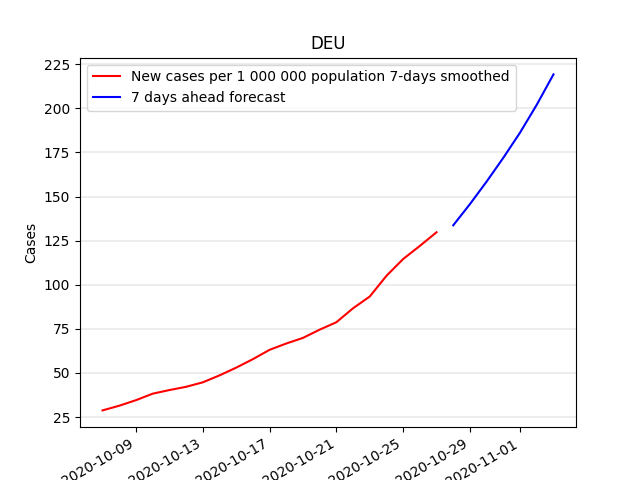
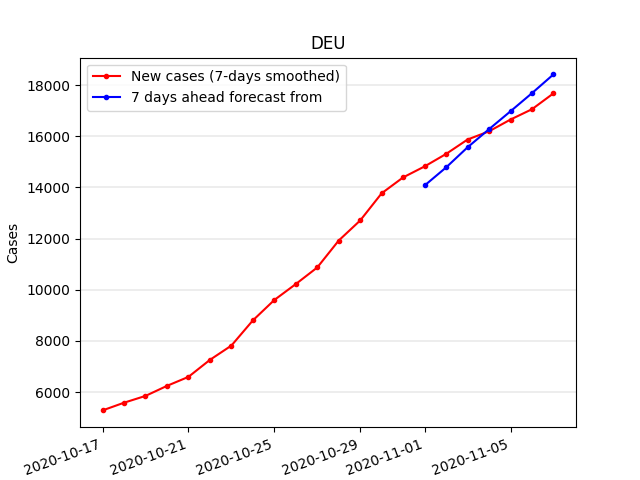
LSTM 7-days-ahead forecast

diff --git a/lstm/lstm_all_countries.py b/lstm/lstm_all_countries.py
@@ -9,11 +9,6 @@ from keras.models import Sequential
 from keras.layers import Dense
 from keras.layers import LSTM
 
-
-def compute_new_smoothed_cases_per_million(row):
-    return row["new_cases_smoothed"] / row["population"] * 1000000
-
-
 def series_to_in_out_pairs(data, n_in=1, n_out=1, leave_cols=[]):
     """
     :param data: pandas dataframe to be encoded
@@ -65,23 +60,30 @@ with open("../data/iso_country_codes.json", "r") as read_file:
 with open("../data/train_test_codes.json", "r") as read_file:
     train_codes, test_codes = json.load(read_file)
 
-euro_data = pd.read_csv("../data/euro_countries_filled.csv", index_col=0)
+start_date, end_date = "2020-03-01", "2020-10-31"
 
+raw_euro_data = pd.read_csv("../data/euro_countries_filled.csv", index_col=0)
+euro_data = raw_euro_data.copy(deep=True)
 euro_data["date"] = euro_data["date"].apply(date_to_number)
-euro_data = euro_data[euro_data["date"] < date_to_number("2020-10-28")]
-euro_data["new_smooth_per_mill"] = euro_data.apply(lambda row: compute_new_smoothed_cases_per_million(row), axis=1)
+euro_data = euro_data[euro_data["date"] <= date_to_number(end_date)]
+# euro_data["new_smooth_per_mill"] = euro_data.apply(lambda row: compute_new_smoothed_cases_per_million(row), axis=1)
 
 # Scale chosen features
-forecast_columns = ["date", "latitude", "longitude", "new_smooth_per_mill", "iso_code"]
-scale_columns = ["date", "latitude", "longitude", "new_smooth_per_mill"]
+forecast_columns = ["date", "latitude", "longitude", "population", "new_cases_smoothed", "iso_code"]
+scale_columns = ["date", "latitude", "longitude", "population", "new_cases_smoothed"]
 forecast_data = euro_data[forecast_columns].copy(deep=True)
 scaler = MinMaxScaler(feature_range=(0, 1))
 forecast_data[scale_columns] = scaler.fit_transform(forecast_data[scale_columns])
 
-forecast_data = series_to_in_out_pairs(forecast_data, n_in=7, n_out=1, leave_cols=["date", "latitude", "longitude", "iso_code"])
+forecast_data = series_to_in_out_pairs(forecast_data, n_in=7, n_out=1, leave_cols=["date", "latitude", "longitude", "population", "iso_code"])
 
 
-def date_scaling(d): return (date_to_number(d) - scaler.data_min_[0]) / (scaler.data_max_[0] - scaler.data_min_[0])
+def date_scaling(d):
+    return (date_to_number(d) - scaler.data_min_[0]) / (scaler.data_max_[0] - scaler.data_min_[0])
+
+
+def invert_date_scaling(s):
+    return number_to_datetime(s * (scaler.data_max_[0] - scaler.data_min_[0]) + scaler.data_min_[0])
 
 
 # All countries have data from 2019-12-31 to 2020-10-27.
@@ -89,7 +91,6 @@ def date_scaling(d): return (date_to_number(d) - scaler.data_min_[0]) / (scaler.
 # We remove all observations before march.
 # Europe's habits have changed since before march 2020, newer data is more interesting
 # I choose the period from 2020-03-01 to 2020-10-27, that is 241 days
-start_date, end_date = "2020-03-01", "2020-10-27"
 forecast_data = forecast_data[forecast_data["date"] >= date_scaling(start_date)]
 forecast_data = forecast_data[forecast_data["date"] <= date_scaling(end_date)]
 
@@ -104,13 +105,14 @@ test = test_df.values
 
 n_lag_days = 7
 n_daily_features = 1
-n_single_features = 3
-n_obs = n_lag_days * n_daily_features + n_single_features  # 10 in this case
+n_single_features = 4
+n_obs = n_lag_days * n_daily_features + n_single_features  # 11 in this case
 
 train_x, train_y = train[:, : n_obs], train[:, -1]
 test_x, test_y = test[:, : n_obs], test[:, -1]
 train_x = train_x.reshape(train_x.shape[0], 1, train_x.shape[1])
 test_x = test_x.reshape(test_x.shape[0], 1, test_x.shape[1])
+
 # Define a model
 model = Sequential()
 model.add(LSTM(64, input_shape=(train_x.shape[1], train_x.shape[2])))
@@ -135,36 +137,108 @@ plt.savefig("training_loss.png")
 # Evaluate model
 scaled_prediction = model.predict(test_x)
 test_x = test_x.reshape((test_x.shape[0], test_x.shape[2]))
-scaled_prediction = concatenate((test_x[:, 0:3], scaled_prediction), axis=1)
+scaled_prediction = concatenate((test_x[:, 0:n_single_features], scaled_prediction), axis=1)
 prediction = scaler.inverse_transform(scaled_prediction)
 y_hat = prediction[:, -1]
 
 actual_test = test_y.reshape((len(test_y), 1))
-actual_test = concatenate((test_x[:, 0:3], actual_test), axis=1)
+actual_test = concatenate((test_x[:, 0:n_single_features], actual_test), axis=1)
 actual_test = scaler.inverse_transform(actual_test)
 y = actual_test[:, -1]
 
 mae = mean_absolute_error(y_hat, y)
-print("MAE: ", mae)
-print("\n")
+# Print Mean Absolute Error for all 1-day-ahead forecasts for all countries in the test set.
+# This is the average error of number of new cases per day per country.
+print("\nTest-set 1 step ahead MAE: {:.3f}\n".format(mae))
 
-# Plot 7 steps ahead forecast for all countries.
+# Evaluate on aggregated set for all of Europe for first week of november
+euro_mean_data = forecast_data.groupby("date")[["latitude", "longitude"]].mean().reset_index()
+euro_sum_cols = ["population", "new_cases_smoothed_(t-7)",
+                 "new_cases_smoothed_(t-6)",
+                 "new_cases_smoothed_(t-5)",
+                 "new_cases_smoothed_(t-4)",
+                 "new_cases_smoothed_(t-3)",
+                 "new_cases_smoothed_(t-2)",
+                 "new_cases_smoothed_(t-1)",
+                 "new_cases_smoothed_(t+0)"]
+euro_sum_data = forecast_data.groupby("date")[euro_sum_cols].sum().reset_index()
+agg_euro_data = pd.concat([euro_mean_data, euro_sum_data], axis=1)
+agg_euro_data = agg_euro_data[["date", "latitude", "longitude"] + euro_sum_cols]
+agg_euro_data = agg_euro_data.loc[:, ~agg_euro_data.columns.duplicated()]
+
+# Plot 7 steps ahead forecast for aggregated european set
+last_entry = agg_euro_data[agg_euro_data["date"] == date_scaling(end_date)]
+last_entry = last_entry.values[:, : n_obs]
+last_entry = last_entry.reshape(1, 1, n_obs)
+first_pred_date = (date.fromisoformat(end_date) + timedelta(days=1))
+first_prediction = model.predict(last_entry)
+predicted_euro_values = concatenate((
+    [date_scaling(first_pred_date.isoformat())],
+    last_entry[0, 0, 1:n_single_features],
+    last_entry[0, 0, n_single_features+1:],
+    first_prediction[0]))
+predicted_euro_values = predicted_euro_values.reshape((1, 1, n_obs))
+
 n_pred_steps = 7
-for code in iso_codes:
+plt.clf()
+for i in range(1, n_pred_steps):
+    last_entry = predicted_euro_values[-1:, :, :]
+    new_prediction = model.predict(last_entry)
+    new_date = (first_pred_date + timedelta(days=i)).isoformat()
+    new_last_row = concatenate((
+        [date_scaling(new_date)],
+        predicted_euro_values[-1, 0, 1:n_single_features - 1],
+        predicted_euro_values[-1, 0, n_single_features:],
+        new_prediction[0]))
+    new_last_row = new_last_row.reshape((1, 1, test_x.shape[1]))
+    predicted_euro_values = concatenate((predicted_euro_values, new_last_row))
+
+predicted_euro_values = predicted_euro_values.reshape((predicted_euro_values.shape[0], predicted_euro_values.shape[2]))
+predicted_euro_values = concatenate((predicted_euro_values[:, 0:n_single_features], predicted_euro_values[:, -1:]), axis=1)
+predicted_euro_values = scaler.inverse_transform(predicted_euro_values)
+
+pred_x = predicted_euro_values[:, 0].reshape(n_pred_steps)
+pred_y = predicted_euro_values[:, n_single_features].reshape(n_pred_steps)
+pred_dates = [number_to_datetime(round(x)) for x in pred_x]
+
+recent_agg = raw_euro_data.groupby("date")["new_cases_smoothed"].sum().reset_index()
+recent_agg = recent_agg[recent_agg["date"] >= "2020-10-17"]
+recent_agg = recent_agg[recent_agg["date"] <= "2020-11-07"]
+recent_dates = [datetime.fromisoformat(d) for d in recent_agg[["date"]].values.flatten()]
+recent_y = recent_agg[["new_cases_smoothed"]].values.flatten()
+
+plt.clf()
+
+euro_mae = mean_absolute_error(recent_y[-7:], pred_y)
+print("Whole Europe 7-days-ahead MAE: {:.2f}".format(euro_mae))
+
+plt.plot_date(recent_dates, recent_y, "r.-")
+plt.plot_date(pred_dates, pred_y, "b.-")
+plt.xticks(rotation=20, horizontalalignment="right")
+plt.title("Europe")
+plt.xlabel("Time")  # Doesn't render because it is pushed below the picture by the dates
+plt.ylabel("Cases")
+plt.grid(True, "major", "y", color="grey", linewidth=0.2)
+plt.legend(["New cases (7-days smoothed)", "7 days ahead forecast from "])
+plt.savefig("plots/EUROPE")
+plt.clf()
+
+# Plot 7 steps ahead forecast for chosen countries.
+
+for code in ["DEU", "NOR", "SWE", "BEL"]:  # Also added Belgium, as its prediction looks suspiciously bad
     country_data = forecast_data[forecast_data["iso_code"] == code]
     country_data = country_data.drop(columns=["iso_code"])
 
     last_entry = country_data[country_data["date"] == date_scaling(end_date)]
     last_entry = last_entry.values[:, : n_obs]
-    last_entry = last_entry.reshape(1, 1, test_x.shape[1])
+    last_entry = last_entry.reshape(1, 1, n_obs)
     prediction = model.predict(last_entry)
-    first_pred_date = (date.fromisoformat(end_date)+timedelta(days=1))
     predicted_values = concatenate((
         [date_scaling(first_pred_date.isoformat())],
-        last_entry[0, 0, 1:3],
-        last_entry[0, 0, 4:],
+        last_entry[0, 0, 1:n_single_features],
+        last_entry[0, 0, n_single_features+1:],
         prediction[0]))
-    predicted_values = predicted_values.reshape((1, 1, test_x.shape[1]))
+    predicted_values = predicted_values.reshape((1, 1, n_obs))
 
     for i in range(1, n_pred_steps):  # 6 more days
         last_entry = predicted_values[-1:, :, :]
@@ -172,33 +246,38 @@ for code in iso_codes:
         new_date = (first_pred_date + timedelta(days=i)).isoformat()
         new_last_row = concatenate((
             [date_scaling(new_date)],
-            predicted_values[-1, 0, 1:3],
-            predicted_values[-1, 0, 4:],
+            predicted_values[-1, 0, 1:n_single_features-1],
+            predicted_values[-1, 0, n_single_features:],
             new_prediction[0]))
         new_last_row = new_last_row.reshape((1, 1, test_x.shape[1]))
         predicted_values = concatenate((predicted_values, new_last_row))
 
     predicted_values = predicted_values.reshape((predicted_values.shape[0], predicted_values.shape[2]))
-    predicted_values = concatenate((predicted_values[:, 0:3], predicted_values[:, -1:]), axis=1)
+    predicted_values = concatenate((predicted_values[:, 0:n_single_features], predicted_values[:, -1:]), axis=1)
     predicted_values = scaler.inverse_transform(predicted_values)
 
     pred_x = predicted_values[:, 0].reshape(n_pred_steps)
-    pred_y = predicted_values[:, 3].reshape(n_pred_steps)
+    pred_y = predicted_values[:, n_single_features].reshape(n_pred_steps)
     pred_dates = [number_to_datetime(round(x)) for x in pred_x]
 
-    recent_history = country_data[["date", "latitude", "longitude", "new_smooth_per_mill_(t+0)"]].values
-    recent_history = scaler.inverse_transform(recent_history)
-    recent_x = recent_history[-21:, 0].reshape(-14)
-    recent_y = recent_history[-21:, 3].reshape(-14)
-    recent_dates = [number_to_datetime(round(x)) for x in recent_x]
+    recent_history = raw_euro_data[raw_euro_data["iso_code"] == code]
+    recent_history = recent_history[recent_history["date"] >= "2020-10-17"]
+    recent_history = recent_history[recent_history["date"] <= "2020-11-07"]
+    recent_history["date"] = recent_history["date"].apply(lambda d: datetime.fromisoformat(d))
 
-    plt.plot_date(recent_dates, recent_y, "r-")
-    plt.plot_date(pred_dates, pred_y, "b-")
-    plt.xticks(rotation=30, horizontalalignment="right")
+    recent_dates = recent_history["date"].values
+    recent_y = recent_history["new_cases_smoothed"].values
+
+    country_mae = mean_absolute_error(recent_y[-7:], pred_y)
+    print("{:s} 7-days-ahead MAE: {:.2f}".format(code, country_mae))
+
+    plt.plot_date(recent_dates, recent_y, "r.-")
+    plt.plot_date(pred_dates, pred_y, "b.-")
+    plt.xticks(rotation=20, horizontalalignment="right")
     plt.title(code)
-    plt.xlabel("Time")  # FIXME: Find out why this doesn't render
+    plt.xlabel("Time")  # Doesn't render because it is pushed below the picture by the dates
     plt.ylabel("Cases")
     plt.grid(True, "major", "y", color="grey", linewidth=0.2)
-    plt.legend(["New cases per 1 000 000 population 7-days smoothed", "7 days ahead forecast"])
+    plt.legend(["New cases (7-days smoothed)", "7 days ahead forecast from "])
     plt.savefig("plots/{:s}.png".format(code))
     plt.clf()

diff --git a/plotting.py b/plotting.py
@@ -20,7 +20,7 @@ for isoCode in countryCodes:
     plt.plot_date(dates, countryData["new_cases_smoothed"]*10, "-")
     plt.xticks(rotation=30, horizontalalignment="right")
     plt.title(countryName)
-    plt.xlabel("Time")  # FIXME: Find out why this doesn't render
+    plt.xlabel("Time")  # Dpes not render because it is pushed below the frame by the dates
     plt.ylabel("Cases")
     plt.grid(True, "major", "y", color="grey", linewidth=0.2)
     plt.legend(["Total cases", "New cases * 10 (7 days smoothed)"])
